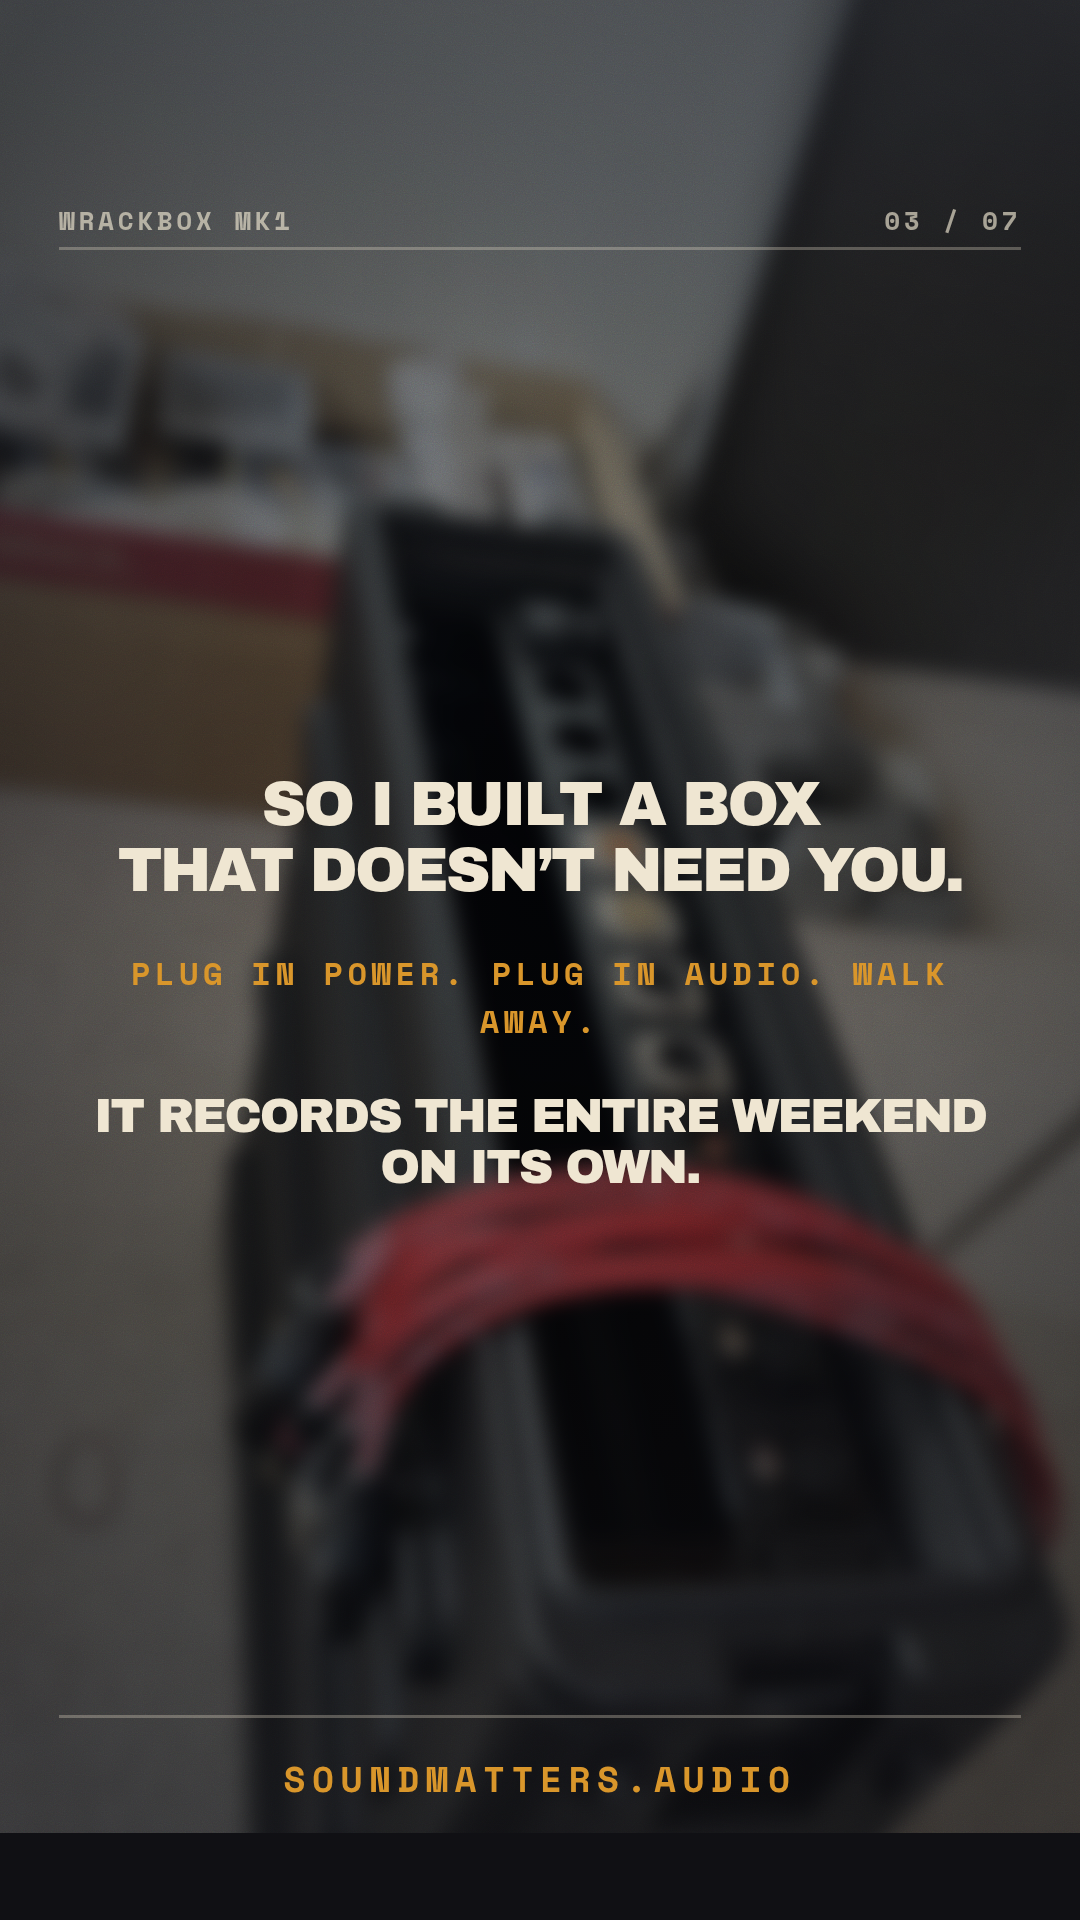
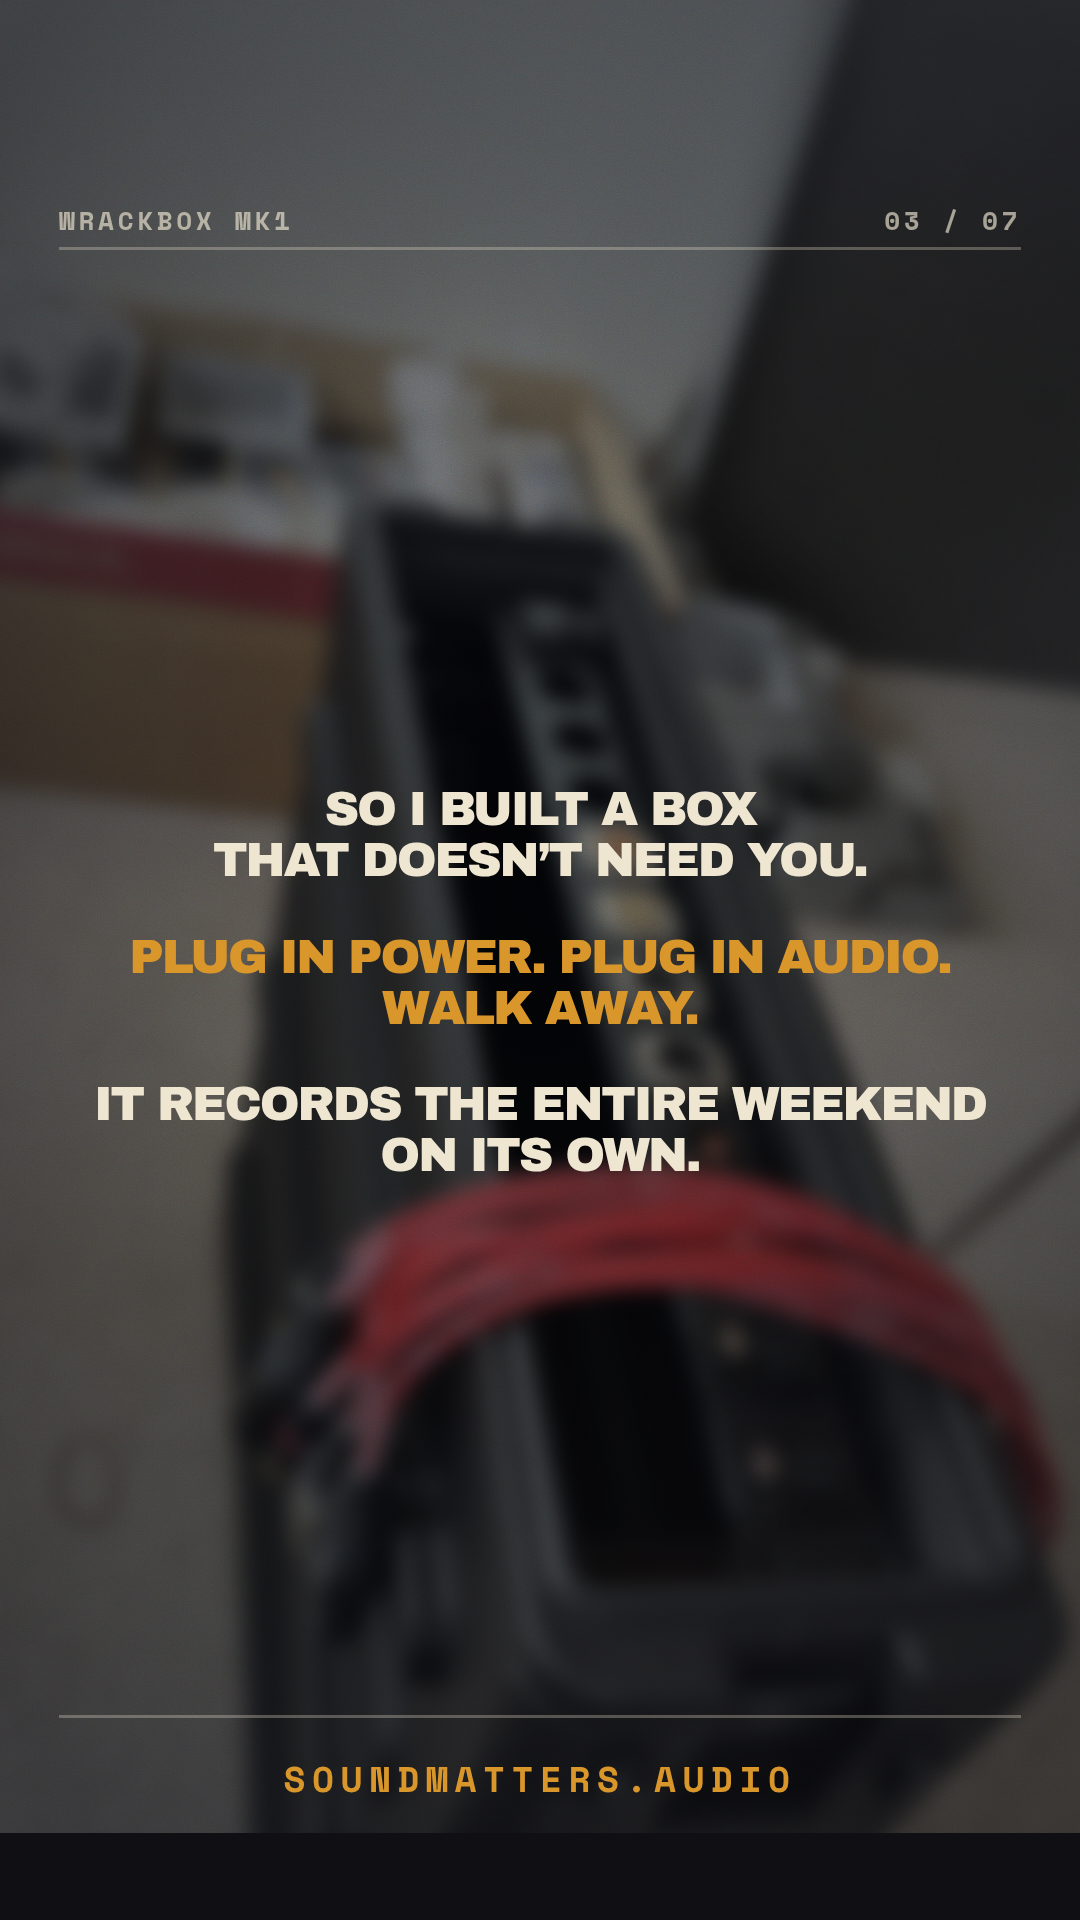
Cut the story series back to two voices
The first set used all three house faces and up to three sizes per slide,
which made six posts read as six different accounts. The didone is out — at
story size on a photograph its hairlines break away — and every slide now
holds one size of the lead face, with the mono kept for the strip, the list,
the note and the foot.

Where a line carried the turn it takes the accent colour rather than a
second size, and the sizes are set from the longest line so nothing wraps.

Claude-Session: https://claude.ai/code/session_014PtFkxHhK32uMmnGPQQ2vj

Changed region(s): [[0.0917, 0.4062, 0.9167, 0.625]]

diff --git a/stories/wrackbox/build.py b/stories/wrackbox/build.py
@@ -59,19 +59,27 @@ def blur_px(strength: float) -> float:
 
 # MARK: - The series
 
+# Two voices, not five. The lead face carries the sentence, the mono carries
+# everything small — the strip, the list, the foot. There is one size per
+# story, and the accent is a colour, never a second size: as soon as a slide
+# holds three sizes it stops reading as one piece of print.
+#
+# The size is set by the longest line, since a line that wraps breaks the
+# rhythm of the block: roughly 962 / (characters * 0.667) at this margin.
+
 STORIES = [
     {
         "n": 1,
         "photo": "rack-front-stage.jpg",
         "crop": (0.50, 0.50),
         "blocks": [
-            {"kind": "fett", "size": 66, "lines": [
+            {"kind": "fett", "size": 62, "lines": [
                 "hey event people",
                 "i built a recording rig",
                 "for festivals.",
             ]},
-            {"kind": "bar", "size": 82, "text": "wrackbox mk1"},
-            {"kind": "serif", "size": 46, "lines": ["here’s what it does →"]},
+            {"kind": "bar", "size": 78, "text": "wrackbox mk1"},
+            {"kind": "note", "text": "here’s what it does →"},
         ],
     },
     {
@@ -81,17 +89,17 @@ STORIES = [
         "blur": 9,
         "dim": 0.46,
         "blocks": [
-            {"kind": "fett", "size": 56, "lines": [
+            {"kind": "fett", "size": 48, "lines": [
                 "recording a whole festival",
                 "is a babysitting job.",
             ]},
-            {"kind": "fett", "size": 44, "colour": KNOCHEN, "lines": [
+            {"kind": "fett", "size": 48, "lines": [
                 "someone checks the laptop",
                 "between sets.",
                 "someone swaps the card at 3am.",
                 "someone hopes the power holds.",
             ]},
-            {"kind": "fett", "size": 50, "colour": OCKER, "lines": [
+            {"kind": "fett", "size": 48, "accent": True, "lines": [
                 "and usually that someone",
                 "is you.",
             ]},
@@ -102,12 +110,13 @@ STORIES = [
         "photo": "rack-closed-back.jpg",
         "crop": (0.52, 0.50),
         "blocks": [
-            {"kind": "fett", "size": 62, "lines": [
+            {"kind": "fett", "size": 48, "lines": [
                 "so i built a box",
                 "that doesn’t need you.",
             ]},
-            {"kind": "mono", "size": 32, "colour": OCKER, "lines": [
-                "plug in power. plug in audio. walk away.",
+            {"kind": "fett", "size": 48, "accent": True, "lines": [
+                "plug in power. plug in audio.",
+                "walk away.",
             ]},
             {"kind": "fett", "size": 48, "lines": [
                 "it records the entire weekend",
@@ -120,13 +129,14 @@ STORIES = [
         "photo": "rack-open-workshop.jpg",
         "crop": (0.52, 0.50),
         "blocks": [
-            {"kind": "fett", "size": 52, "lines": [
+            {"kind": "fett", "size": 40, "lines": [
                 "the timetable goes in once.",
             ]},
-            {"kind": "serif", "size": 40, "lines": [
-                "all three days · every slot, every break.",
+            {"kind": "fett", "size": 40, "accent": True, "lines": [
+                "all three days — every slot,",
+                "every break.",
             ]},
-            {"kind": "fett", "size": 44, "lines": [
+            {"kind": "fett", "size": 40, "lines": [
                 "the box follows the plan by itself.",
                 "records what should be recorded,",
                 "stays quiet when nothing’s on.",
@@ -164,8 +174,8 @@ STORIES = [
                 "four stages. four boxes.",
                 "one timetable.",
             ]},
-            {"kind": "bar", "size": 74, "text": "wrackbox mk1"},
-            {"kind": "serif", "size": 42, "lines": ["DM me if you run stages."]},
+            {"kind": "bar", "size": 72, "text": "wrackbox mk1"},
+            {"kind": "note", "text": "DM me if you run stages."},
         ],
     },
 ]
@@ -185,9 +195,11 @@ def font_face(name: str, file: str) -> str:
     )
 
 
+# Two of the three house faces. The didone is deliberately left out here: on
+# a photograph at story size its hairlines break away, and a third voice is
+# what made the first set read as five different posts.
 FACES = "".join([
     font_face("Archivo Black", "ArchivoBlack-Regular.ttf"),
-    font_face("Bodoni Moda", "BodoniModa-Bold.ttf"),
     font_face("Space Mono", "SpaceMono-Bold.ttf"),
 ])
 
@@ -230,12 +242,13 @@ html,body{{width:{W}px;height:{H}px;background:{TINTE};overflow:hidden}}
 .body{{flex:1;display:flex;flex-direction:column;justify-content:center;
   align-items:center;text-align:center;gap:46px;padding:60px 0}}
 
+/* The lead: one size per story, bone, or ocker where a line carries the turn. */
 .fett{{font-family:'Archivo Black','Arial Black',sans-serif;text-transform:uppercase;
   letter-spacing:-.045em;line-height:1.06;color:{KNOCHEN}}}
-.serif{{font-family:'Bodoni Moda',Didot,serif;letter-spacing:-.015em;line-height:1.2;
-  color:rgba(239,230,210,.82)}}
-.mono{{font-family:'Space Mono',monospace;text-transform:uppercase;letter-spacing:.14em;
-  line-height:1.5;color:{KNOCHEN}}}
+.fett.accent{{color:{OCKER}}}
+/* The small type: the strip, the list, the note, the foot — nothing else. */
+.note{{font-family:'Space Mono',monospace;text-transform:uppercase;letter-spacing:.14em;
+  font-size:28px;line-height:1.5;color:rgba(239,230,210,.66)}}
 
 /* The bar: a field in the accent with a hard contour in ink — CardRenderer.drawBar. */
 .bar{{display:inline-block;font-family:'Archivo Black','Arial Black',sans-serif;
@@ -264,16 +277,11 @@ html,body{{width:{W}px;height:{H}px;background:{TINTE};overflow:hidden}}
 def block_html(block: dict) -> str:
     kind = block["kind"]
     if kind == "fett":
-        colour = block.get("colour", KNOCHEN)
+        accent = " accent" if block.get("accent") else ""
         lines = "<br>".join(block["lines"])
-        return f'<div class="fett" style="font-size:{block["size"]}px;color:{colour}">{lines}</div>'
-    if kind == "serif":
-        lines = "<br>".join(block["lines"])
-        return f'<div class="serif" style="font-size:{block["size"]}px">{lines}</div>'
-    if kind == "mono":
-        colour = block.get("colour", KNOCHEN)
-        lines = "<br>".join(block["lines"])
-        return f'<div class="mono" style="font-size:{block["size"]}px;color:{colour}">{lines}</div>'
+        return f'<div class="fett{accent}" style="font-size:{block["size"]}px">{lines}</div>'
+    if kind == "note":
+        return f'<div class="note">{block["text"]}</div>'
     if kind == "bar":
         return f'<div><span class="bar" style="font-size:{block["size"]}px">{block["text"]}</span></div>'
     if kind == "list":
